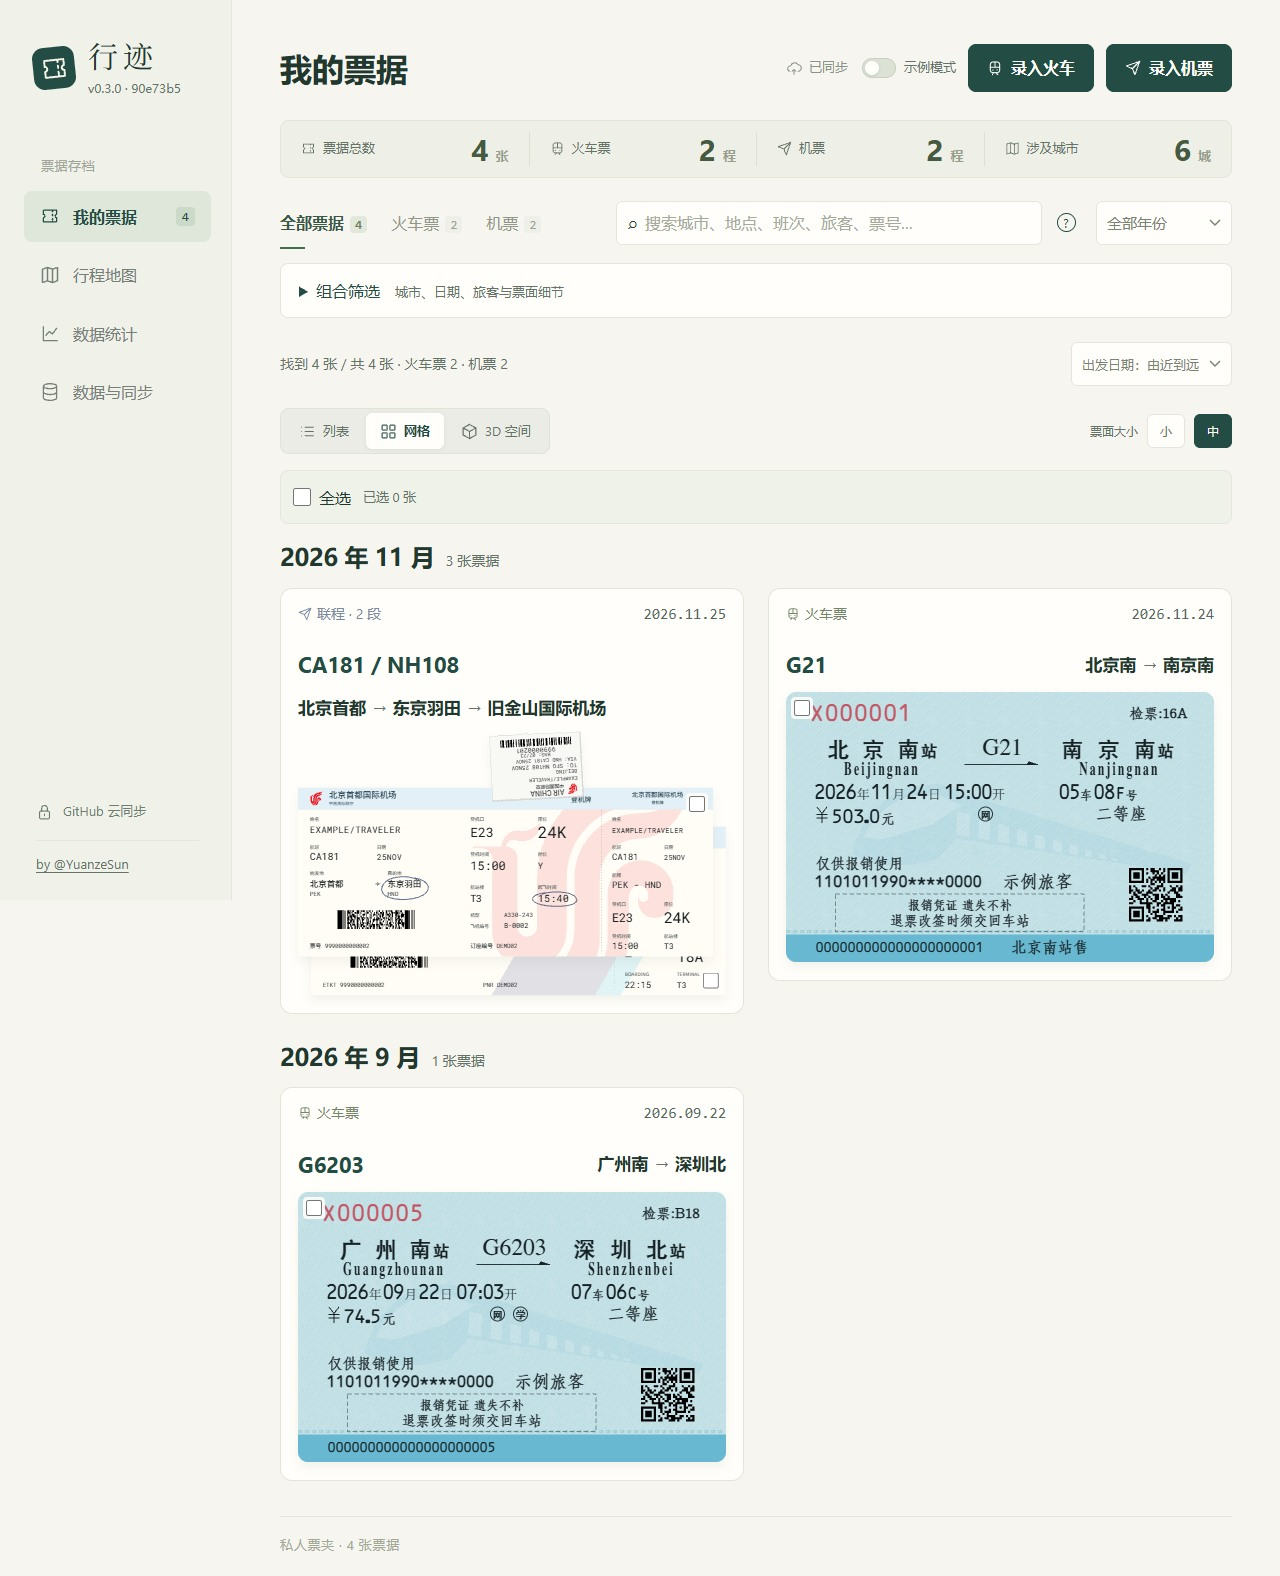
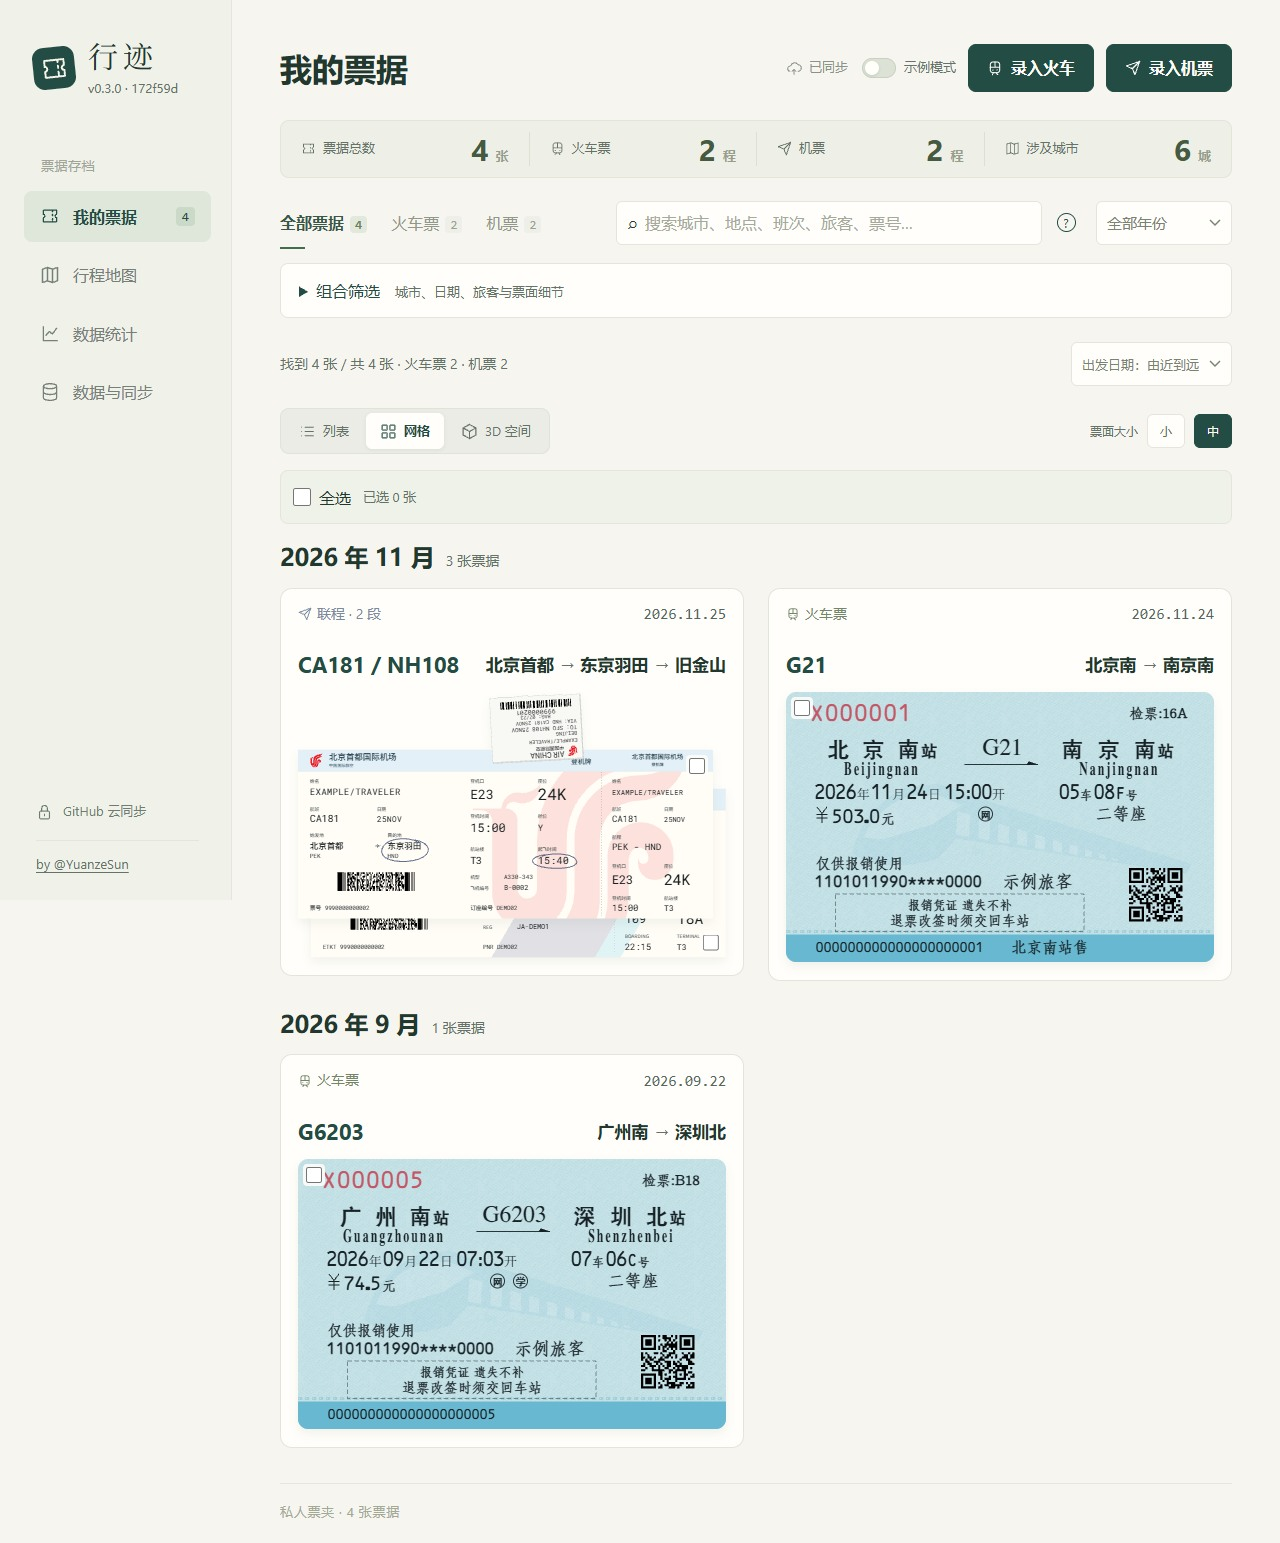
Include a connecting itinerary in the demo archive

diff --git a/tests/demo.test.js b/tests/demo.test.js
@@ -10,15 +10,17 @@ import {readBoardingCode} from '../src/bcbp.js';
 import {validateTicketForm} from '../src/ticket-form.js';
 import {journeyStatistics} from '../src/statistics-model.js';
 import {ticketSVG} from '../src/tickets.js';
+import {boardingBaggageIndex,withBoardingBaggage} from '../src/boarding-baggage.js';
 
-test('four sample journeys stay recent across month and year boundaries while historical ticket styles keep their dates',()=>{
+test('recent sample journeys follow the date across month and year boundaries while historical tickets keep their dates',()=>{
   for(const today of ['2026-11-17','2027-01-02']){
     const rows=demoRecords(today),recent=rows.filter(record=>Date.parse(today)-Date.parse(calendarDate(record.departureDate))>0 && Date.parse(today)-Date.parse(calendarDate(record.departureDate))<=3*86400000);
-    assert.equal(rows.length,11);assert.equal(recent.length,4);assert.equal(recent.filter(record=>record.type==='rail').length,2);assert.equal(recent.filter(record=>record.type==='flight').length,2);
+    assert.equal(rows.length,12);assert.equal(recent.length,5);assert.equal(recent.filter(record=>record.type==='rail').length,2);assert.equal(recent.filter(record=>record.type==='flight').length,3);
     assert.equal(calendarDate(rows.find(record=>record.template==='rail-blue').departureDate),'2018-10-01');assert.equal(calendarDate(rows.find(record=>record.template==='rail-red-classic').departureDate),'2014-07-12');assert.equal(calendarDate(rows.find(record=>record.template==='rail-red').departureDate),'2017-09-10');
     for(const record of rows){assert.doesNotThrow(()=>validateTicketForm(record));assert.ok(calendarDate(record.departureDate)<=calendarDate(record.arrivalDate));for(const key of ['passenger','identity','origin','destination','departureTime','arrivalTime','price','gate','ticketNumber','departureZone','arrivalZone'])assert.ok(record[key],record.id+' '+key);assert.equal(Object.hasOwn(record, 'orderNumber'),record.type==='rail');}
     const statistics=journeyStatistics(rows,{dateTo:today},today);
-    assert.equal(statistics.flight,5);assert.equal(statistics.rail,6);
+    assert.equal(statistics.flight,6);assert.equal(statistics.rail,6);
+    assert.equal(statistics.fares.flight.cents, 612000);
     assert.deepEqual(statistics.repeatedTrainsets.map(({name,count})=>({name,count})),[{name:'CR400BF-B-5099',count:2}]);
     assert.deepEqual(statistics.repeatedAircraft.map(({name,count})=>({name,count})),[{name:'B-DEMO1',count:2}]);
   }
@@ -50,18 +52,23 @@ test('every sample train has an offline route with line names, a complete timeta
 
 test('demo flights have independent boarding codes and cover the aircraft grouping options',()=>{
   const rows=demoRecords('2026-11-17').filter(record=>record.type==='flight');
+  const baggage = boardingBaggageIndex(rows);
   for(const record of rows){
     const code=readBoardingCode(record.boardingCode);assert.equal(record.boardingCodeSource,'generated');assert.equal(code.service,record.service);assert.equal(code.originCode,record.originCode);assert.equal(code.destinationCode,record.destinationCode);assert.equal(code.seat,record.seat);assert.equal(code.cabin,record.seatClass);assert.equal(code.pnr,record.pnr);assert.equal(atob(record.boardingCode.rawBytes)[22],' ');
     for(const key of ['airline','aircraft','aircraftRegistration','departureTerminal','arrivalTerminal','boardingTime','pnr','flightStatus','flightDistance','actualDepartureDate','actualDepartureTime','actualArrivalDate','actualArrivalTime','frequentFlyerCarrier','frequentFlyerNumber','marketingCarrier'])assert.ok(record[key],record.service+' '+key);
-    assert.equal(ticketSVG(record).includes('data-boarding-baggage-sticker'), Boolean(record.checkedBaggageCount));
   }
-  assert.deepEqual(rows.filter(record => record.checkedBaggageCount).map(record => record.service), ['CA181', 'MU9901']);
+  assert.deepEqual(rows.filter(record => baggage.get(record.id)?.sticker).map(record => record.service), ['CA181', 'MU9901']);
+  const first = rows.find(record => record.service === 'CA181'), onward = rows.find(record => record.service === 'NH108');
+  assert.equal(first.ticketNumber, onward.ticketNumber);
+  assert.equal(first.destinationCode, onward.originCode);
+  assert.equal(first.checkedBaggageCount, onward.checkedBaggageCount);
+  assert.match(ticketSVG(withBoardingBaggage(first, baggage)), /TO: SFO NH108 14NOV<.*VIA: HND CA181 14NOV</s);
   assert.equal(rows.find(record=>record.service==='MU5403').destinationCode,'CTU');assert.equal(rows.find(record=>record.service==='CA181').destinationCode,'HND');assert.equal(rows.find(record=>record.service==='CA181').passenger,'EXAMPLE/TRAVELER');
   assert.equal(new Set(rows.map(record=>record.boardingCode.rawBytes)).size, rows.length);
-  assert.deepEqual(rows.slice(2).map(record=>record.aircraft),['737-8Q8','737-800','737-8']);
+  assert.deepEqual(rows.filter(record => record.service.startsWith('MU990')).map(record=>record.aircraft),['737-8Q8','737-800','737-8']);
   const counts = aircraftSubtypes => Object.fromEntries(journeyStatistics(rows,{aircraftSubtypes}).aircraft.map(({name,count})=>[name,count]));
-  assert.deepEqual(counts(true),{'737-800':2,'737 MAX 8':1,A321ceo:1,'A330-300':1});
-  assert.deepEqual(counts(false),{'737':3,A321:1,A330:1});
+  assert.deepEqual(counts(true),{'737-800':2,'737 MAX 8':1,A321ceo:1,'A330-300':1,'787-9':1});
+  assert.deepEqual(counts(false),{'737':3,'787':1,A321:1,A330:1});
   const mileage = journeyStatistics(rows, { dateTo: '2026-11-17' }, '2026-11-17');
   assert.equal(mileage.actualFlightDistanceTrips, 2);
   assert.equal(rows.find(record=>record.service==='MU9901').flightStop.airport, 'WUH');

diff --git a/src/demo.js b/src/demo.js
@@ -50,6 +50,19 @@ export function demoRecords(today=todayDate()){
     aircraft, aircraftRegistration, actualArrivalTime, pnr: `DEMO0${3 + index}`, ticketNumber: `781000000000${2 + index}`,
     ...(index === 0 ? { baggageTagNumbers: '7810000102', checkedBaggageCount: '1', checkedBaggageWeight: '9' } : {})
   }));
+  const tokyoConnection = {
+    type: 'flight', template: 'air-boarding-pass', departureDate: recent(3),
+    passenger: 'EXAMPLE/TRAVELER', identity: 'P00000000', pnr: 'DEMO02', ticketNumber: '9990000000002', price: '2680.00',
+    baggageTagNumbers: '9990000201–9990000202', checkedBaggageCount: '2', checkedBaggageWeight: '23',
+    frequentFlyerCarrier: 'CA', frequentFlyerNumber: '000087654321', seatClass: 'Y'
+  };
+  const onward = {
+    ...tokyoConnection, id: 'demo-12', service: 'NH108', airline: '全日空', marketingCarrier: 'NH',
+    origin: '东京羽田', destination: '旧金山', originCode: 'HND', destinationCode: 'SFO',
+    departureTime: '22:55', arrivalTime: '15:30', actualDepartureTime: '23:07', actualArrivalTime: '15:44',
+    departureTerminal: 'T3', arrivalTerminal: 'I', gate: '109', boardingTime: '22:15', seat: '18A',
+    aircraft: '787-9', aircraftRegistration: 'JA-DEMO1', flightDistance: '8300'
+  };
   const g21 = {id:'demo-1',type:'rail',template:'rail-receipt',departureDate:recent(1),origin:'北京南',destination:'南京南',service:'G21',carriage:'05',seat:'08F',seatClass:'二等座',price:'503.0',issuer:'北京南',railShowIssuer:true,gate:'16A',railPlatform:'8'};
   const rows=[
     g21,
@@ -57,17 +70,24 @@ export function demoRecords(today=todayDate()){
     {id:'demo-3',type:'rail',template:'rail-blue',departureDate:'2018-10-01',origin:'杭州东',destination:'南京南',service:'G7602',carriage:'03',seat:'12A',seatClass:'二等座',price:'117.5',issuer:'杭州东',gate:'7',railPlatform:'7',provenance:'reconstruction'},
     {id:'demo-4',type:'rail',template:'rail-red-classic',departureDate:'2014-07-12',origin:'北京',destination:'齐齐哈尔',service:'Z83',carriage:'09',seat:'015号下铺',seatClass:'硬卧',price:'363.0',issuer:'北京',gate:'2',railPlatform:'5',provenance:'reconstruction'},
     {id:'demo-5',type:'rail',template:'rail-receipt',departureDate:recent(2),origin:'广州南',destination:'深圳北',service:'G6203',carriage:'07',seat:'06C',seatClass:'二等座',price:'74.5',issuer:'广州南',gate:'B18',railPlatform:'18'},
-    {id:'demo-6',type:'flight',template:'air-boarding-pass',departureDate:recent(3),departureTime:'15:40',arrivalTime:'19:50',boardingTime:'15:00',actualDepartureTime:'15:48',actualArrivalTime:'19:55',origin:'北京首都',destination:'东京羽田',originCode:'PEK',destinationCode:'HND',service:'CA181',airline:'中国国际航空',seat:'24K',seatClass:'Y',departureTerminal:'T3',arrivalTerminal:'T3',gate:'E23',aircraft:'A330-343',aircraftRegistration:'B-0002',flightDistance:'2100',pnr:'DEMO02',baggageTagNumbers:'9990000201–9990000202',checkedBaggageCount:'2',checkedBaggageWeight:'23',frequentFlyerCarrier:'CA',frequentFlyerNumber:'000087654321',marketingCarrier:'CA',price:'2680.00',ticketNumber:'9990000000002',passenger:'EXAMPLE/TRAVELER',identity:'P00000000'},
+    {
+      ...tokyoConnection, id: 'demo-6', service: 'CA181', airline: '中国国际航空', marketingCarrier: 'CA',
+      origin: '北京首都', destination: '东京羽田', originCode: 'PEK', destinationCode: 'HND',
+      departureTime: '15:40', arrivalTime: '19:50', actualDepartureTime: '15:48', actualArrivalTime: '19:55',
+      departureTerminal: 'T3', arrivalTerminal: 'T3', gate: 'E23', boardingTime: '15:00', seat: '24K',
+      aircraft: 'A330-343', aircraftRegistration: 'B-0002', flightDistance: '2100'
+    },
     {id:'demo-7',type:'rail',template:'rail-red',departureDate:'2017-09-10',origin:'北京南',destination:'天津',service:'C2021',carriage:'01',seat:'02A',seatClass:'二等座',price:'57.0',issuer:'北京南',gate:'18',railPlatform:'9',provenance:'reconstruction'},
     ...boeingExamples,
-    {...g21,id:'demo-11',departureDate:recent(7),seat:'10A'}
+    {...g21,id:'demo-11',departureDate:recent(7),seat:'10A'},
+    onward
   ];
   const marks={'demo-1':[{text:'网',shape:'circle'}],'demo-3':[{text:'网',shape:'plain'}],'demo-4':[{text:'网',shape:'circle'}],'demo-5':[{text:'网',shape:'circle'},{text:'学',shape:'circle'}],'demo-7':[{text:'网',shape:'plain'}]};
   return rows.map((row,index)=>{
     const serial = String(index + 1);
     const values={passenger:'示例旅客',identity:'110101199001010000',provenance:'commemorative',createdAt:verifiedAt,updatedAt:verifiedAt,...row};
-    const syntheticFlight = boeingExamples.includes(row);
-    const label = syntheticFlight ? '虚构航班与执飞记录，用于展示机型统计' : '示例行程，部分班次及线路引用公开资料';
+    const syntheticFlight = row === onward || boeingExamples.includes(row);
+    const label = row === onward ? '虚构联程航段' : syntheticFlight ? '虚构航班与执飞记录，用于展示机型统计' : '示例行程，部分班次及线路引用公开资料';
     values.sources=[{kind:'demo',label,at:verifiedAt}];
     values.fieldSources={};
     if(row.type==='rail'){

diff --git a/tests/demo-guest.test.js b/tests/demo-guest.test.js
@@ -13,6 +13,7 @@ test('a fresh visitor can browse examples without GitHub, then return to the con
   const requests=[];globalThis.fetch=async url=>{requests.push(String(url));return new Response('{}',{status:404});};
   const db=await import('../src/db.js');
   const sampleCount=demoRecords().length;
+  const renderedTickets=()=>document.querySelectorAll('.ticket-card .ticket-preview').length;
   const wait=async predicate=>{for(let i=0;i<300;i++){if(await predicate())return;await new Promise(resolve=>setTimeout(resolve,10));}assert.fail('Guest demo did not settle');};
   const click=selector=>{const button=document.querySelector(selector);assert.ok(button,selector);button.click();};
   try{
@@ -20,7 +21,10 @@ test('a fresh visitor can browse examples without GitHub, then return to the con
     assert.equal(document.querySelector('[data-action="enter-demo"]').textContent,'进入示例模式');
     const owner=document.querySelector('[name="owner"]');owner.value='draft-owner';owner.dispatchEvent(new window.Event('input',{bubbles:true}));
     click('[data-action="enter-demo"]');
-    await wait(()=>document.querySelectorAll('.ticket-card').length===sampleCount);
+    await wait(()=>renderedTickets()===sampleCount);
+    const stack=document.querySelector('.ticket-stack');
+    assert.match(stack.querySelector('.card-service').textContent,/CA181 \/ NH108/);
+    assert.equal(stack.querySelectorAll('[data-boarding-baggage-sticker]').length,1);
     assert.equal(await db.get('showDemo'),true);assert.equal(document.querySelector('.cloud-setup'),null);
     for(const page of ['map','statistics','archive']){
       click('nav [data-page="'+page+'"]');await wait(()=>document.querySelector('nav [data-page="'+page+'"][aria-current="page"]'));
@@ -35,8 +39,9 @@ test('a fresh visitor can browse examples without GitHub, then return to the con
     assert.equal(await db.get('showDemo'), false);
     assert.equal(document.querySelector('[name="owner"]').value, 'draft-owner');
     click('[data-action="enter-demo"]');
-    await wait(() => document.querySelectorAll('.ticket-card').length === sampleCount);
-    click('[data-action="view"][data-id="demo-2"]');await wait(()=>document.querySelector('.detail-grid'));
+    await wait(() => renderedTickets() === sampleCount);
+    click('.ticket-stack [data-action="view"][data-id="demo-12"]');await wait(()=>document.querySelector('.detail-grid'));
+    assert.equal(document.querySelector('.heading-service').textContent,'NH108');
     assert.equal(document.querySelector('#modal-root [data-action="edit"],#modal-root [data-action="delete"]'),null);click('[data-action="close-modal"]');
     for(const page of ['data','import']){location.hash=page;await wait(()=>location.hash==='#archive');assert.equal(document.querySelector('#github-form,#profile-form,#import-text'),null);}
     assert.deepEqual(await db.get('records',[]),[]);assert.equal(await db.get('github'),undefined);

diff --git a/tests/demo-mode-ui.test.js b/tests/demo-mode-ui.test.js
@@ -30,7 +30,7 @@ test('sample mode exposes only browsing pages and preserves private records when
     for(const page of ['data','import']){location.hash=page;await wait(()=>location.hash==='#archive');assert.equal(document.querySelector('#profile-form,#github-form,#import-text'),null);}
     await go('archive','我的票据');
     const sampleCount = demoRecords().length;
-    assert.equal(document.querySelectorAll('.ticket-card').length, sampleCount);
+    assert.equal(document.querySelectorAll('.ticket-card .ticket-preview').length, sampleCount);
     assert.equal(document.querySelector('.nav-count').textContent, String(sampleCount));
     assert.ok([...document.querySelectorAll('.ticket-card [data-action="view"]')].every(button => button.dataset.id.startsWith('demo-')));
     assert.deepEqual(await db.get('records'), [original]);
